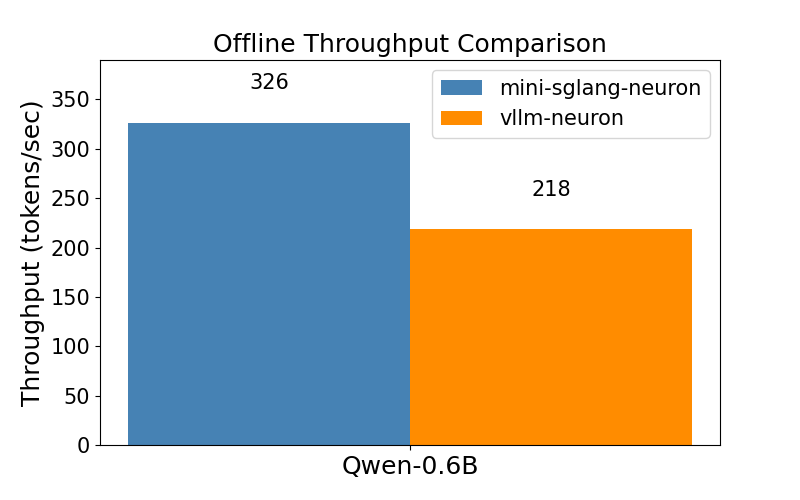
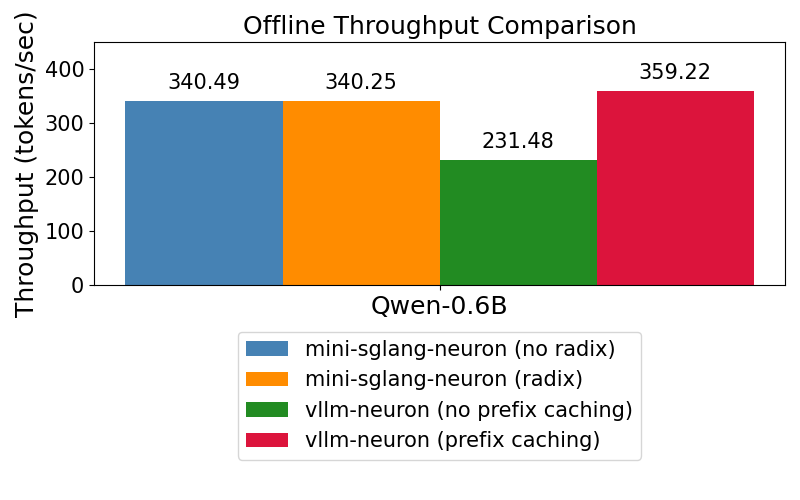
chore: improve the benchmark results.

diff --git a/benchmark/offline/bench_vllm_neuron.py b/benchmark/offline/bench_vllm_neuron.py
@@ -15,6 +15,7 @@ def main():
     max_input_len = 1024
     max_output_len = 1024
 
+    # vllm-neurion (no prefix caching)
     llm = LLM(
         model="Qwen/Qwen3-0.6B",
         trust_remote_code=True,
@@ -22,19 +23,25 @@ def main():
         tensor_parallel_size=tp_size,
         max_num_seqs=6,
         max_model_len=2048,
-        enable_chunked_prefill=False,
         max_num_batched_tokens=8192,
         block_size=128,
-        num_gpu_blocks_override=128,
-        additional_config={
-            "override_neuron_config": {
-                "is_prefix_caching": True,
-                "is_block_kv_layout": True,
-                "pa_num_blocks": 128,
-                "pa_block_size": 128
-            }
-        },
+        num_gpu_blocks_override=9,
+        enable_prefix_caching=False,
     )
+
+    # vllm-neurion (prefix caching)
+    # llm = LLM(
+    #     model="Qwen/Qwen3-0.6B",
+    #     trust_remote_code=True,
+    #     dtype="bfloat16",
+    #     tensor_parallel_size=tp_size,
+    #     max_num_seqs=6,
+    #     max_model_len=2048,
+    #     max_num_batched_tokens=8192,
+    #     block_size=128,
+    #     num_gpu_blocks_override=128,
+    #     enable_prefix_caching=True,
+    # )
 
     prompts = [
         TokensPrompt(

diff --git a/python/minisgl/scheduler/scheduler.py b/python/minisgl/scheduler/scheduler.py
@@ -320,17 +320,10 @@ class Scheduler(SchedulerIOMixin):
 
     @torch.no_grad()
     def run_forever(self) -> NoReturn:
-        if ENV.DISABLE_OVERLAP_SCHEDULING:
-            logger.info("Starting normal scheduling loop...")
-            while True:
-                self.normal_loop()
-        else:
-            logger.info("Starting overlap scheduling loop...")
-            data = None
-            # TODO: NxDI does not support async execution now, so the overlap is not significant.
-            #   In the future, we can explore NxDI for async execution and further optimize the overlap.
-            while True:
-                data = self.overlap_loop(data)
+        while True:
+            self.normal_loop()
+        # TODO: NxDI does not support async execution now, so the overlap is not significant.
+        #   In the future, we can explore NxDI for async execution and further optimize the overlap.
 
     def shutdown(self) -> None:
         torch_xla.sync()

diff --git a/benchmark/offline/bench.py b/benchmark/offline/bench.py
@@ -12,11 +12,13 @@ def main():
     seed(0)
     tp_size = 2
     os.environ["NEURON_RT_NUM_CORES"] = str(tp_size)
+
     num_seqs = 256
     max_input_len = 1024
     max_ouput_len = 1024
 
     # align the hyperparameters
+    # mini-sglang-neurion (no radix)
     llm = LLM(
         "Qwen/Qwen3-0.6B",
         max_seq_len_override=2048, 
@@ -24,7 +26,19 @@ def main():
         tp_size=tp_size, 
         num_page_override=16384,
         max_extend_tokens=8192,
+        cache_type="naive",
     )
+    
+    # mini-sglang-neurion (radix)
+    # llm = LLM(
+    #     "Qwen/Qwen3-0.6B",
+    #     max_seq_len_override=2048, 
+    #     max_running_req=6,
+    #     tp_size=tp_size, 
+    #     num_page_override=16384,
+    #     max_extend_tokens=8192,
+    #     cache_type="radix",
+    # )
 
     prompt_token_ids = [
         [randint(0, 10000) for _ in range(randint(100, max_input_len))] for _ in range(num_seqs)

diff --git a/python/minisgl/benchmark/client.py b/python/minisgl/benchmark/client.py
@@ -236,12 +236,18 @@ async def benchmark_one(
             extra_body=kwargs,
         )
         tics = [time.perf_counter()]
-        async for _ in response:
+        chunks = []
+        async for event in response:
             tics.append(time.perf_counter())
+            delta = event.choices[0].delta
+            if getattr(delta, "content", None):
+                chunks.append(delta.content)
             if len(tics) == 2:
                 pbar.update_prefill()
             elif len(tics) <= output_length + 1:
                 pbar.update_decode()
+        full_response = "".join(chunks)
+        #print(f"xinux - {full_response=}")
         return RawResult(
             input_len=input_length,
             output_len=output_length,

diff --git a/README.md b/README.md
@@ -142,7 +142,7 @@ Test Configuration:
 Server startup command for `mini-sglang-neuron`: see [server.sh](./server.sh).
 
 ```bash
-# Mini-SGLang
+# mini-sglang-neuron (no radix)
 export TP_SIZE=2
 export NEURON_RT_NUM_CORES="${TP_SIZE}"
 python -m minisgl \
@@ -150,40 +150,57 @@ python -m minisgl \
   --dtype bfloat16 \
   --tp-size "$TP_SIZE" \
   --max-running-requests 6 \
-  --max-prefill-length 8192 \
+  --max-prefill-length 256 \
   --max-seq-len-override 2048 \
   --num-pages 16384 \
   --port 1919 \
-  --cache-type naive
+  --cache-type naive # Change to "radix"  
+
+# mini-sglang-neuron (radix)
+export TP_SIZE=2
+export NEURON_RT_NUM_CORES="${TP_SIZE}"
+python -m minisgl \
+  --model-path Qwen/Qwen3-0.6B \
+  --dtype bfloat16 \
+  --tp-size "$TP_SIZE" \
+  --max-running-requests 6 \
+  --max-prefill-length 256 \
+  --max-seq-len-override 2048 \
+  --num-pages 16384 \
+  --port 1919 \
+  --cache-type radix
 ```
 
 Server startup command for `vllm-neuron`.
 
 ```bash
-ADDITIONAL_CONFIG=$(cat <<'EOF'
-{
-  "override_neuron_config": {
-    "is_prefix_caching": true,
-    "is_block_kv_layout": true,
-    "pa_num_blocks": 128,
-    "pa_block_size": 128
-  }
-}
-EOF
-)
+# vllm-neuron (no prefix caching)
+export TP_SIZE=2
+export NEURON_RT_NUM_CORES="${TP_SIZE}"
 
-# Note that chunked prefill is not supported as of 0.4.1
 vllm serve Qwen/Qwen3-0.6B \
   --dtype bfloat16 \
   --tensor-parallel-size "${TP_SIZE}" \
   --max-num-seqs 6 \
   --max-model-len 2048 \
   --port 1919 \
-  --no-enable-chunked-prefill \
-  --max-num-batched-tokens 8192 \
+  --max-num-batched-tokens 256 \
   --block-size 128 \
-  --num-gpu-blocks-override 128 \
-  --additional-config "${ADDITIONAL_CONFIG}"
+  --num-gpu-blocks-override 6 \
+  --no-enable-prefix-caching 
+
+# vllm-neuron (prefix caching)
+export TP_SIZE=2
+export NEURON_RT_NUM_CORES="${TP_SIZE}"
+vllm serve Qwen/Qwen3-0.6B \
+  --dtype bfloat16 \
+  --tensor-parallel-size "${TP_SIZE}" \
+  --max-num-seqs 6 \
+  --max-model-len 2048 \
+  --port 1919 \
+  --max-num-batched-tokens 256 \
+  --block-size 128 \
+  --num-gpu-blocks-override 128
 ```
 
 Client command:
